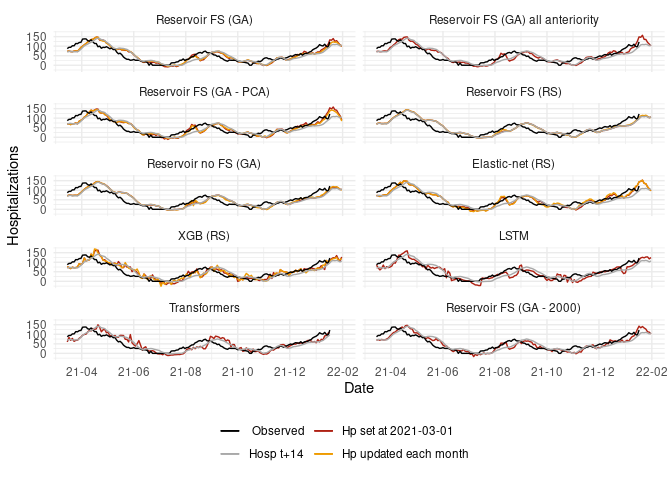
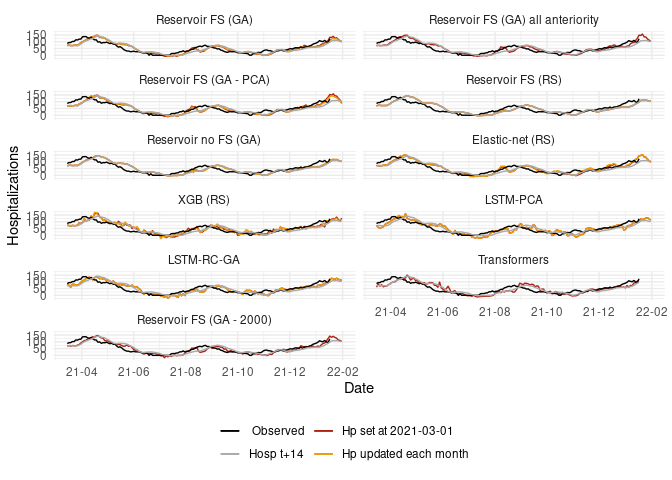
update report

diff --git a/script/results_high_dim_rc.md b/script/results_high_dim_rc.md
@@ -197,16 +197,52 @@ The total number of features is 409.
    <td style="text-align:right;"> 2.40 </td>
   </tr>
   <tr>
-   <td style="text-align:left;"> LSTM </td>
+   <td style="text-align:left;"> LSTM-PCA </td>
    <td style="text-align:left;"> No </td>
-   <td style="text-align:right;"> 16.11 </td>
-   <td style="text-align:right;"> 14.83 </td>
-   <td style="text-align:right;"> -2.47 </td>
-   <td style="text-align:right;"> 11.30 </td>
-   <td style="text-align:right;"> 0.26 </td>
-   <td style="text-align:right;"> 0.45 </td>
-   <td style="text-align:right;"> 0.68 </td>
-   <td style="text-align:right;"> 4.51 </td>
+   <td style="text-align:right;"> 15.74 </td>
+   <td style="text-align:right;"> 13.98 </td>
+   <td style="text-align:right;"> -2.84 </td>
+   <td style="text-align:right;"> 11.80 </td>
+   <td style="text-align:right;"> 0.24 </td>
+   <td style="text-align:right;"> 0.50 </td>
+   <td style="text-align:right;"> 0.76 </td>
+   <td style="text-align:right;"> 3.32 </td>
+  </tr>
+  <tr>
+   <td style="text-align:left;"> LSTM-PCA </td>
+   <td style="text-align:left;"> Yes </td>
+   <td style="text-align:right;"> 15.74 </td>
+   <td style="text-align:right;"> 13.98 </td>
+   <td style="text-align:right;"> -2.84 </td>
+   <td style="text-align:right;"> 11.80 </td>
+   <td style="text-align:right;"> 0.24 </td>
+   <td style="text-align:right;"> 0.50 </td>
+   <td style="text-align:right;"> 0.76 </td>
+   <td style="text-align:right;"> 3.32 </td>
+  </tr>
+  <tr>
+   <td style="text-align:left;"> LSTM-RC-GA </td>
+   <td style="text-align:left;"> No </td>
+   <td style="text-align:right;"> 15.08 </td>
+   <td style="text-align:right;"> 12.71 </td>
+   <td style="text-align:right;"> -3.51 </td>
+   <td style="text-align:right;"> 9.30 </td>
+   <td style="text-align:right;"> 0.23 </td>
+   <td style="text-align:right;"> 0.48 </td>
+   <td style="text-align:right;"> 0.80 </td>
+   <td style="text-align:right;"> 1.76 </td>
+  </tr>
+  <tr>
+   <td style="text-align:left;"> LSTM-RC-GA </td>
+   <td style="text-align:left;"> Yes </td>
+   <td style="text-align:right;"> 15.08 </td>
+   <td style="text-align:right;"> 12.71 </td>
+   <td style="text-align:right;"> -3.51 </td>
+   <td style="text-align:right;"> 9.30 </td>
+   <td style="text-align:right;"> 0.23 </td>
+   <td style="text-align:right;"> 0.48 </td>
+   <td style="text-align:right;"> 0.80 </td>
+   <td style="text-align:right;"> 1.76 </td>
   </tr>
   <tr>
    <td style="text-align:left;"> Transformers </td>
@@ -398,7 +434,7 @@ month.
   </tr>
   <tr>
    <td style="text-align:left;"> LSTM </td>
-   <td style="text-align:right;"> 37.3698673 </td>
+   <td style="text-align:right;"> 32.2258518 </td>
   </tr>
   <tr>
    <td style="text-align:left;"> Transformers </td>
